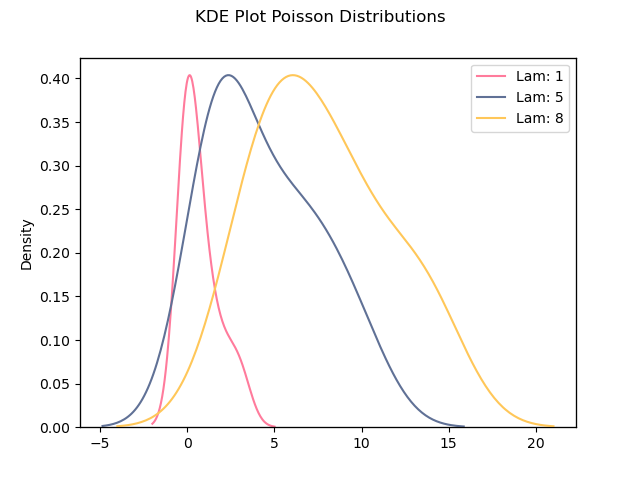
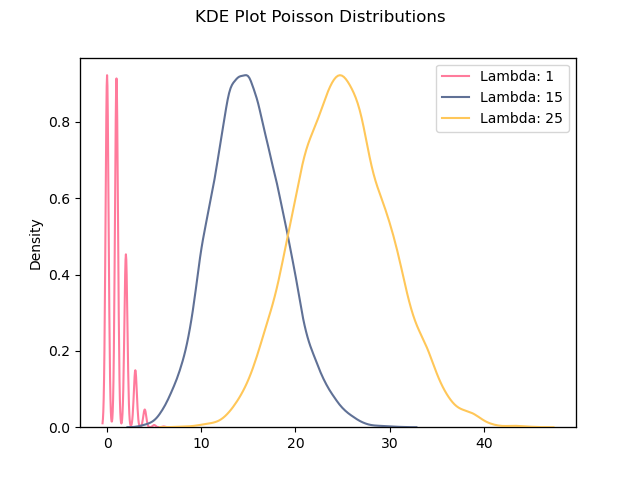
exponential

diff --git a/poisson.py b/poisson.py
@@ -1,9 +1,9 @@
 import numpy as np
 import matplotlib.pyplot as plt
 import seaborn as sns
-poissondist1 = np.random.poisson(lam = 1, size = 10)
-poissondist2 = np.random.poisson(lam = 5, size = 10)
-poissondist3 = np.random.poisson(lam = 8, size = 10)
+poissondist1 = np.random.poisson(lam = 1, size = 10000)
+poissondist2 = np.random.poisson(lam = 15, size = 10000)
+poissondist3 = np.random.poisson(lam = 25, size = 10000)
 
 fig, ax = plt.subplots()
 rng = np.random.default_rng(12345)
@@ -11,13 +11,13 @@ rng = np.random.default_rng(12345)
 np.random.seed(100)
 
 plt.suptitle("KDE Plot Poisson Distributions")
-sns.kdeplot(poissondist1, ax = ax, color = '#FF7B9C', label = "Lam: 1")
+sns.kdeplot(poissondist1, ax = ax, color = '#FF7B9C', label = "Lambda: 1")
 ax2 = ax.twinx()
 ax2.get_yaxis().set_ticks([])
-sns.kdeplot(poissondist2, ax = ax2, color = '#607196', label = "Lam: 5")
+sns.kdeplot(poissondist2, ax = ax2, color = '#607196', label = "Lambda: 15")
 ax3 = ax.twinx()
 ax3.get_yaxis().set_ticks([])
-sns.kdeplot(poissondist3, ax = ax3, color = '#FFC759', label = "Lam: 8")
+sns.kdeplot(poissondist3, ax = ax3, color = '#FFC759', label = "Lambda: 25")
 lines, labels = ax.get_legend_handles_labels()
 lines2, labels2 = ax2.get_legend_handles_labels()
 lines3, labels3 = ax3.get_legend_handles_labels()
@@ -26,5 +26,29 @@ plt.savefig("poisson.png")
 plt.close()
 
 
+def get_scale(x):
+    y = 1/x
+    return y
+
+
+exponentialDist1 = np.random.exponential(scale = get_scale(x=1), size = 10000)
+exponentialDist5 = np.random.exponential(scale = get_scale(x=15), size = 10000)
+exponentialDist8 = np.random.exponential(scale = get_scale(x=25), size = 100000)
+
+fig, ax = plt.subplots()
+plt.suptitle("KDE Plot Exponential Distribution")
+sns.kdeplot(exponentialDist1, ax = ax, color = '#FF7B9C', label = "Lambda: 1")
+ax2 = ax.twinx()
+ax2.get_yaxis().set_ticks([])
+sns.kdeplot(exponentialDist5, ax = ax2, color = '#607196', label = "Lambda: 15")
+ax3 = ax.twinx()
+ax3.get_yaxis().set_ticks([])
+sns.kdeplot(exponentialDist8, ax = ax3, color = '#FFC759', label = "Lambda: 25")
+lines, labels = ax.get_legend_handles_labels()
+lines2, labels2 = ax2.get_legend_handles_labels()
+lines3, labels3 = ax3.get_legend_handles_labels()
+ax2.legend(lines + lines2 + lines3, labels + labels2 + labels3, loc=0)
+plt.savefig("exponential.png")
+plt.close()
 
 
